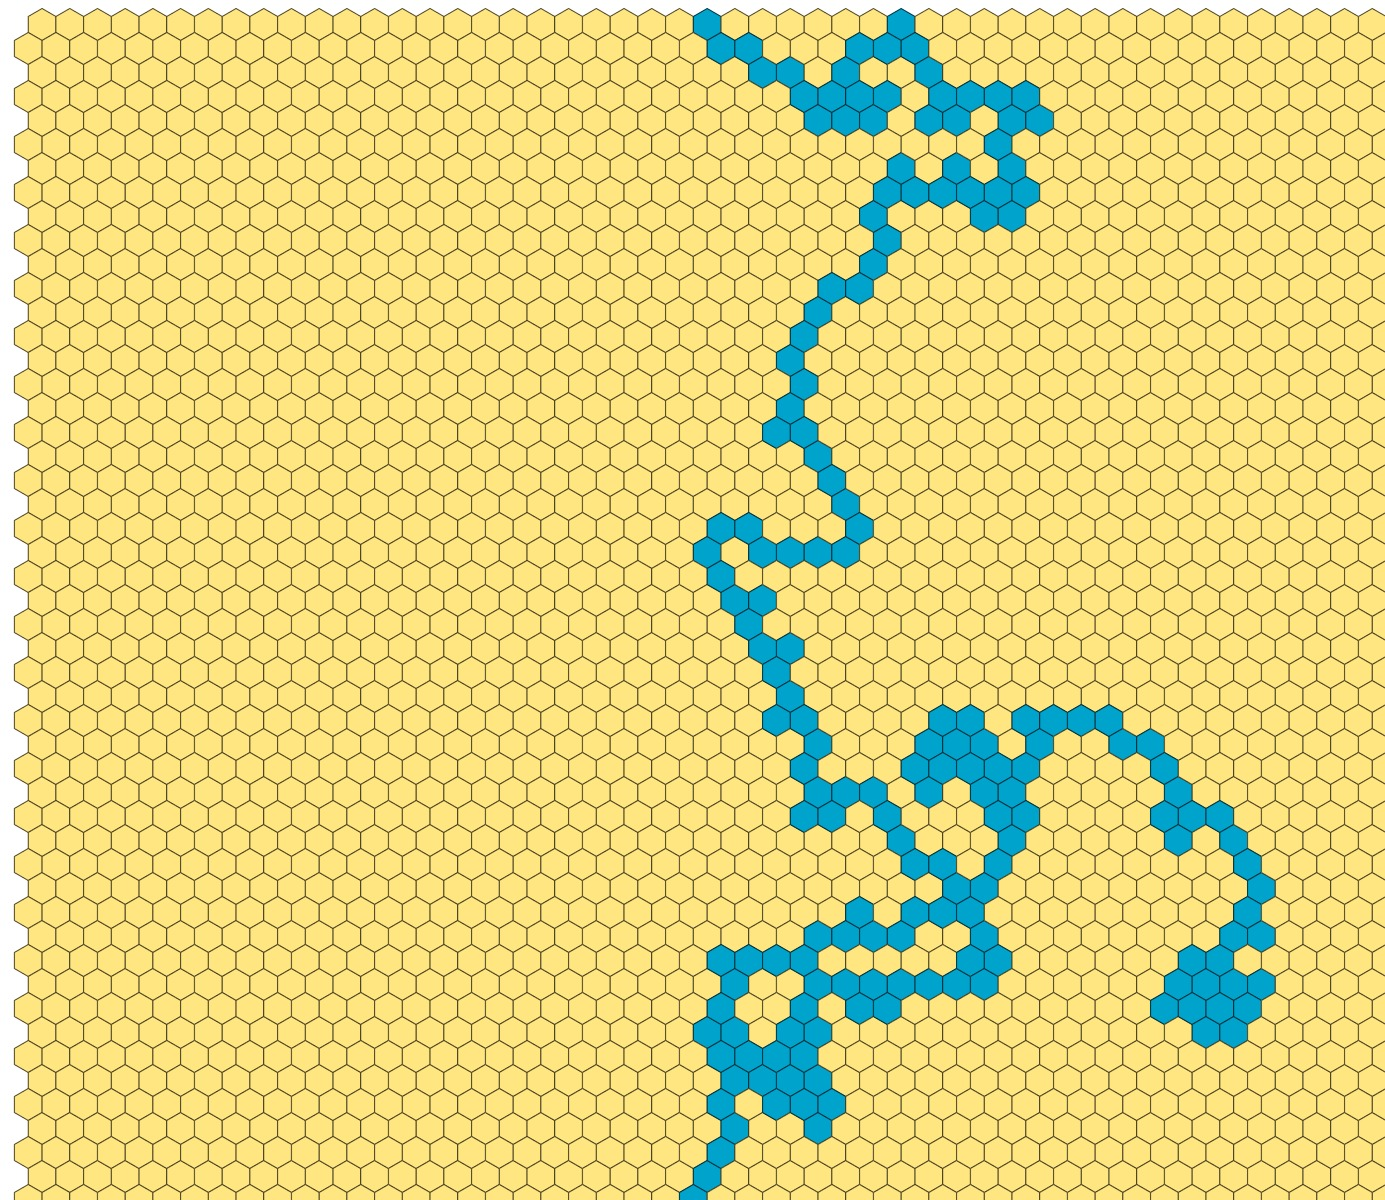
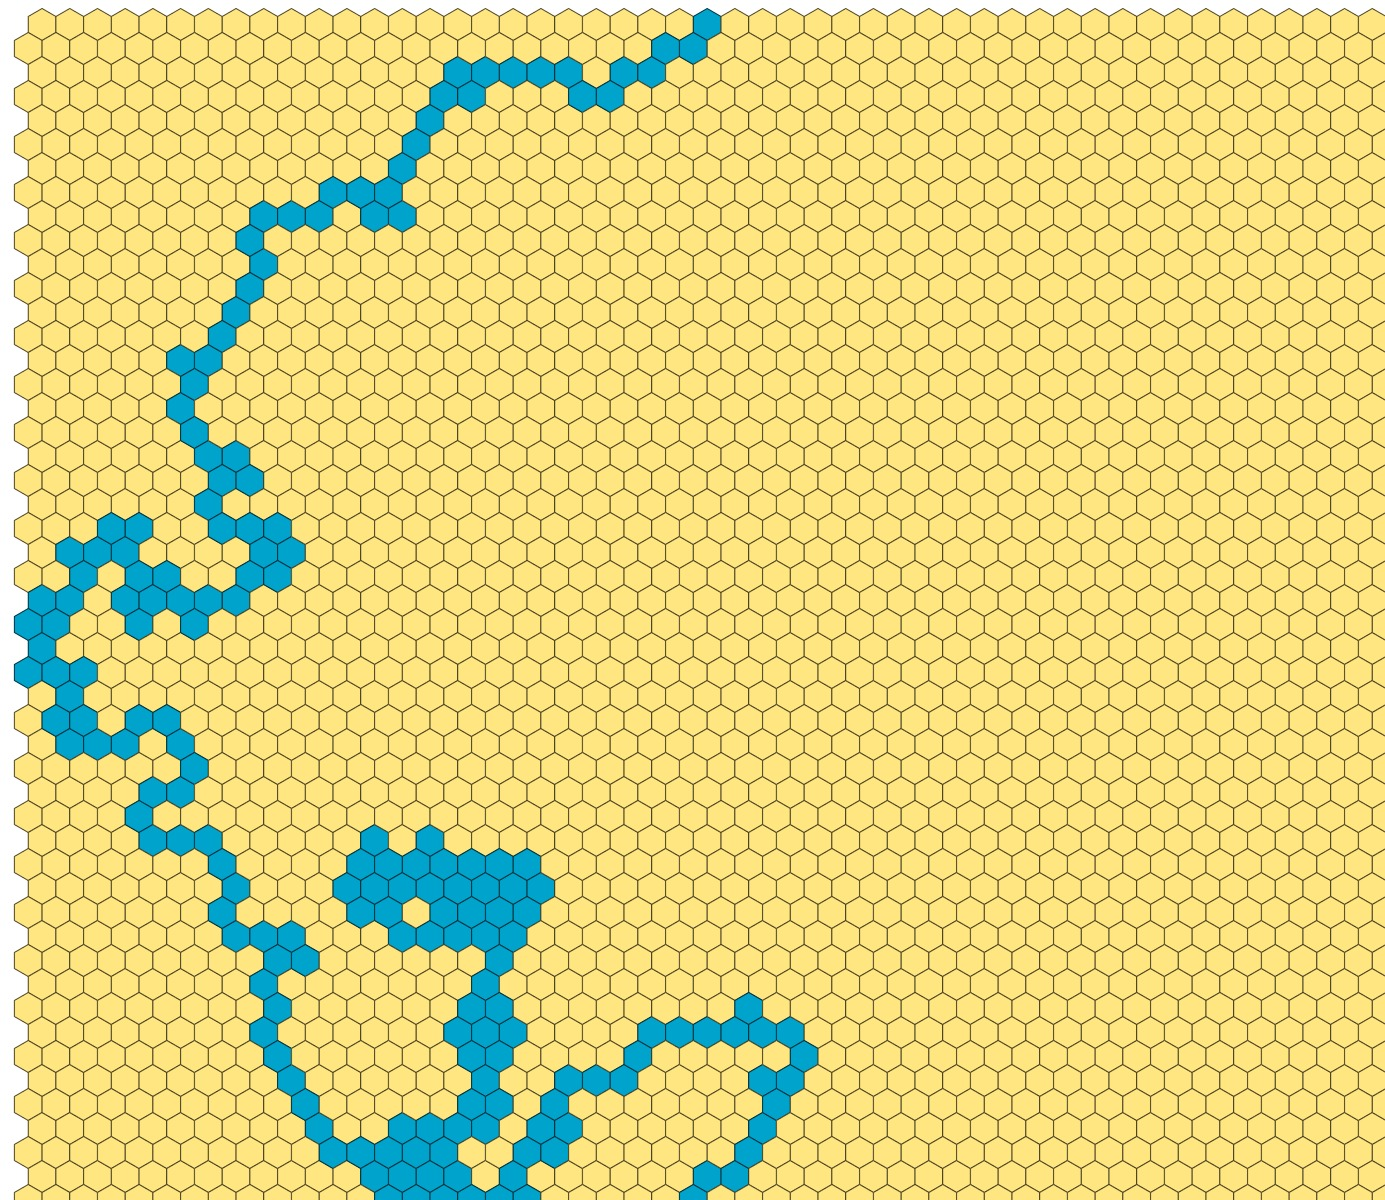
Full cycle.

Changed region(s): [[0.0, 0.0, 0.9314, 1.0]]

diff --git a/lib/ground_hex.rb b/lib/ground_hex.rb
@@ -19,20 +19,51 @@ class GroundHex
   def set_fertility( surrounding_hexes )
     unless @water
       water_around_area = surrounding_hexes.select{ |e| e if e&.data&.water }
-      @fertility = [ water_around_area.count, 3 ].min if water_around_area.count > 0
+      fertility = [ water_around_area.count, 3 ].min if water_around_area.count > 0
+      @fertility = [ :herb, :grass, :luxurious ][ fertility - 1 ] if fertility
     end
   end
 
-  def set_icon
-    if @fertility == 3
-      @dwelling = Dwelling.new
+  def settlement
+    if @fertility == :luxurious
+      @dwelling = Dwelling.new( :huts )
     end
+  end
+
+  def build_temple( surrounding_hexes )
+    unless @dwelling&.huts? || water
+      villages_count = surrounding_hexes.compact.select{ |e| e.data.dwelling&.huts? }.count
+      if villages_count >= 2
+        @dwelling = Dwelling.new( :temple )
+      end
+    end
+  end
+
+  def wreck
+    @dwelling&.wreck
+  end
+
+  def remove_water
+    @carving = :river_traces if @water
+    @carving = :vegetation_traces if @fertility
+
+    @water = false
+    @fertility = nil
+    @dwelling = nil if @dwelling&.huts?
+  end
+
+  def sand_recover
+    @carving = nil
+    @water = false
+    @fertility = nil
+    @dwelling = nil
   end
 
   def color
-    return 0 if @water
-    return 9 + @fertility if @fertility
-    @ground_strength
+    return :water if @water
+    return @fertility if @fertility
+    return @carving if @carving
+    :sand
   end
 
 end

diff --git a/lib/ground.rb b/lib/ground.rb
@@ -1,9 +1,11 @@
 require 'rhex'
 require_relative 'ground_hex'
+require_relative 'ground_events'
 
 class Ground
 
   include Magick
+  include GroundEvents
 
   attr_reader :ground, :rows, :cols
 
@@ -16,9 +18,9 @@ class Ground
 
     @ground = SquareGrid.new( element_to_color_hash: {
       # 1 => '#ffe680', 2 => '#ffe066', 3 => '#ffdb4d',
-      1 => '#ffe680', 2 => '#ffe680', 3 => '#ffe680',
-      0 => '#00a3cc', -1 => '#000000',
-      10 => '#c2e016', 11 => '#96e016', 12 => '#34e016' } )
+      :sand => '#ffe680', vegetation_traces: '#ffdb4d', river_traces: '#e0a316',
+      water: '#00a3cc', :dark => '#000000',
+      herb: '#c2e016', grass: '#96e016', luxurious: '#34e016' } )
 
     1.upto( cols ).each do |q|
       1.upto( rows ).each do |r|
@@ -28,17 +30,11 @@ class Ground
 
   end
 
-  def populate
-    @ground.each do |hex|
-      hex.data.set_icon
-    end
-  end
-
-  def nature_grow
-    @ground.each do |hex|
-      hex.data.set_fertility( @ground.h_surrounding_hexes( hex ) )
-    end
-  end
+  # def cataclysm
+  #   @ground.each do |hex|
+  #     hex.
+  #   end
+  # end
 
   def to_pic( pic_name )
 
@@ -52,7 +48,7 @@ class Ground
       if hex.data.dwelling&.exists?
         d = hex.data.dwelling
         x, y = @ground.to_xy( hex )
-        p d
+        # p d
         canvas = canvas.composite( d.image, x-d.decalx, y-d.decaly, OverCompositeOp )
       end
     end

diff --git a/lib/dwelling.rb b/lib/dwelling.rb
@@ -1,5 +1,7 @@
 class Dwelling
 
+  attr_reader :type
+
   DATA = {
     huts: { icon: 'icons/huts.png', scale: 0.12, xdecal: 11, ydecal: 11 },
     temple: { icon: 'icons/templet.png', scale: 0.1, xdecal: 11, ydecal: 14 },
@@ -8,7 +10,7 @@ class Dwelling
 
   @@data = nil
 
-  def initialize
+  def initialize( type )
 
     unless @@data
       @@data = {}
@@ -25,14 +27,19 @@ class Dwelling
     # village= Magick::ImageList.new( 'icons/village.svg' ).first
     # village.scale!( 0.04 )
 
-    @type = case Hazard.rd8
-      when 8
-        :temple
-      when 7
-        :ruines
-      when 5..6
-        :huts
+    if type == :huts
+      @type = :huts if Hazard.rd2 == 1
+    elsif type == :temple
+      @type = :temple
     end
+  end
+
+  def huts?
+    @type == :huts
+  end
+
+  def wreck
+    @type = :ruines if @type == :temple
   end
 
   def exists?

diff --git a/generate.rb b/generate.rb
@@ -15,7 +15,7 @@ require_relative 'lib/potamos'
 # srand( 192174785237470115019899101558127501028 )
 
 # Good one :
-srand( 272261806232980611960164374502446273770 )
+# srand( 272261806232980611960164374502446273770 )
 
 ground = Ground.new( 50, 50 )
 ground.to_pic( 'pics/10_desert.jpg' )
@@ -29,6 +29,18 @@ ground.to_pic( 'pics/30_nature_grow.jpg' )
 
 ground.populate
 ground.to_pic( 'pics/40_dwellings.jpg' )
+
+ground.temples
+ground.to_pic( 'pics/50_temples.jpg' )
+
+ground.cataclysm
+ground.to_pic( 'pics/60_cataclysm.jpg' )
+
+ground.wreck
+ground.to_pic( 'pics/70_wrecks.jpg' )
+
+ground.sand_recover
+ground.to_pic( 'pics/80_sand_recover.jpg' )
 
 # h.color = -1
 

diff --git a/lib/ground_events.rb b/lib/ground_events.rb
@@ -1,0 +1,40 @@
+module GroundEvents
+
+  def populate
+    @ground.each do |hex|
+      hex.data.settlement
+    end
+  end
+
+  def nature_grow
+    @ground.each do |hex|
+      hex.data.set_fertility( @ground.h_surrounding_hexes( hex ) )
+    end
+  end
+
+  def temples
+    @ground.each do |hex|
+      hex.data.build_temple( @ground.h_surrounding_hexes( hex ) )
+    end
+  end
+
+  def cataclysm
+    @ground.each do |hex|
+      hex.data.remove_water
+    end
+  end
+
+  def wreck
+    @ground.each do |hex|
+      hex.data.wreck
+    end
+  end
+
+  def sand_recover
+    @ground.each do |hex|
+      hex.data.sand_recover
+    end
+  end
+
+
+end
